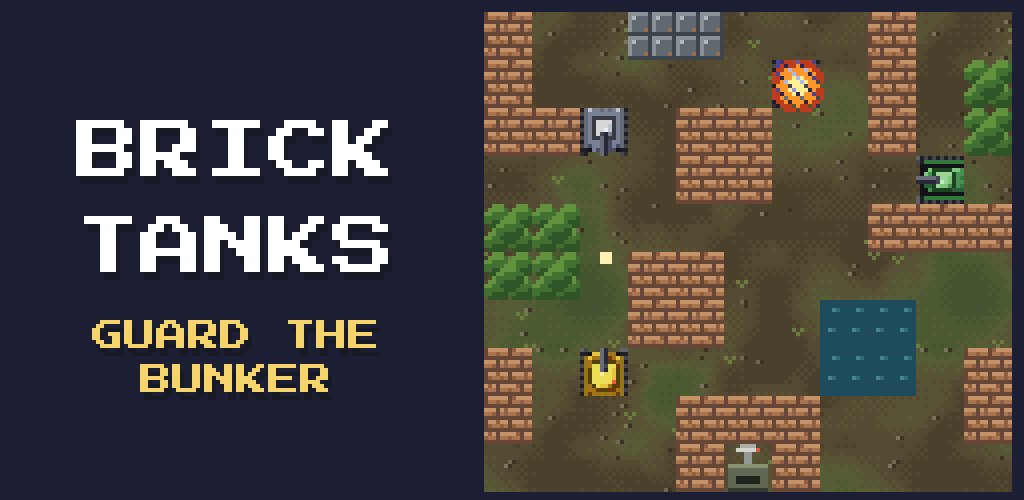
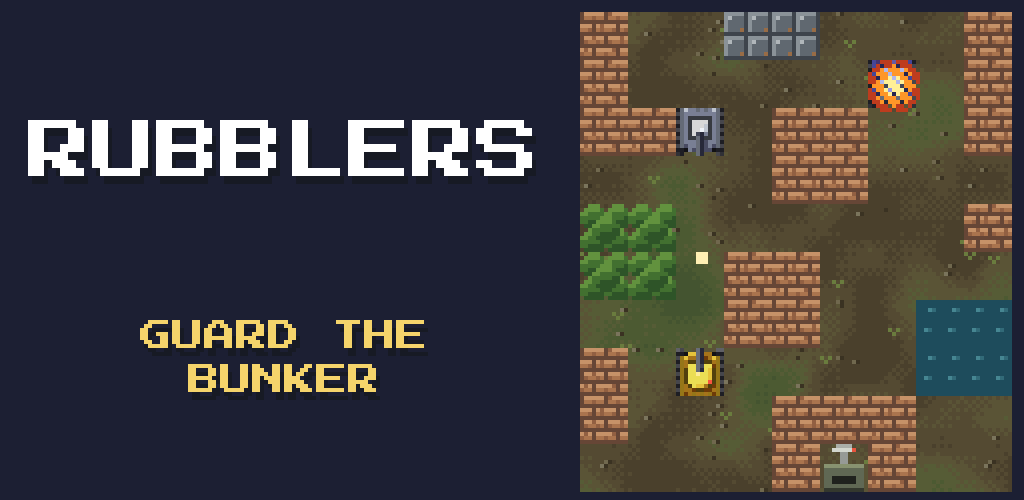
brick-tanks: the game is now called Rubblers
Display name, privacy policy, diorama label and feature graphic. URLs stay /brick-tanks/.

Claude-Session: https://claude.ai/code/session_01BNVtYF22qr7eKBFKzy8B9n

diff --git a/src/data/site.ts b/src/data/site.ts
@@ -56,7 +56,7 @@ export const GAMES: Game[] = [
             store: "https://play.google.com/store/apps/details?id=eu.qkix.inchway" },
   },
   {
-    id: "brick-tanks", name: "Brick Tanks", accent: "#E0664C", status: "live",
+    id: "brick-tanks", name: "Rubblers", accent: "#E0664C", status: "live",
     shots: ["1_campaign", "2_battle", "3_desert", "6_boss", "5_night"], shotLangs: ["en", "pl"], videoLangs: ["en", "pl"], youtube: "1BHbHuYiLW4",
     tag: { en: "Guard your bunker in a brick maze – a one-thumb pixel tank battle.",
            pl: "Broń bunkra w ceglanym labiryncie – pixelowa bitwa czołgów na jeden kciuk." },
@@ -125,7 +125,7 @@ export const COMMUNITY_API = "https://qkix-community.qkix.workers.dev";
 
 const en = {
   title: "qkix – tiny pixel games for one thumb",
-  description: "qkix makes small, cozy pixel-art games for Android and iPhone: Hoplow, Inchway, Crosswoven and Brick Tanks.",
+  description: "qkix makes small, cozy pixel-art games for Android and iPhone: Hoplow, Inchway, Crosswoven and Rubblers.",
   nav_games: "Games", nav_videos: "Videos", nav_about: "About", nav_contact: "Contact",
   scene_label: "Live scenes from our games taking turns: a bunny on a meadow, cars on a highway, a tank in a brick maze, a dwarf in a mine, a patch being stitched",
   scene_tag: "Live: our games, taking turns",
@@ -178,7 +178,7 @@ const en = {
 };
 const pl: typeof en = {
   title: "qkix – małe pixelowe gry na jeden kciuk",
-  description: "qkix robi małe, przytulne gry pixel art na Androida i iPhone'a: Hoplow, Inchway, Crosswoven i Brick Tanks.",
+  description: "qkix robi małe, przytulne gry pixel art na Androida i iPhone'a: Hoplow, Inchway, Crosswoven i Rubblers.",
   nav_games: "Gry", nav_videos: "Filmy", nav_about: "O nas", nav_contact: "Kontakt",
   scene_label: "Scenki z naszych gier na zmianę: królik na łące, auta na autostradzie, czołg w ceglanym labiryncie, krasnolud w kopalni, wyszywana łatka",
   scene_tag: "Na żywo: nasze gry na zmianę",

diff --git a/src/scripts/diorama.js b/src/scripts/diorama.js
@@ -1,5 +1,5 @@
 // The home page's live diorama: a strip of panels, one game in each (Hoplow's meadow, Inchway's highway,
-// Brick Tanks' battlefield, Gloomdeep's mine, Crosswoven's table). Two or three panels fit; every
+// Rubblers' battlefield, Gloomdeep's mine, Crosswoven's table). Two or three panels fit; every
 // ROTATE seconds one panel blows up in a pixel blast and the next game takes its place, so all five
 // come round. Drawn at 1 game pixel per canvas pixel and scaled up by whole numbers (CSS).
 // Sprites: public/img/sprites (tools/sync_assets.py copies them from the games).
@@ -21,7 +21,7 @@ const ROTATE = [15, 20];          // s a panel stays before the next game blows 
 const BLAST = 1.0;                // s of the blast; the new game shows from its half
 const SEAM = "#12141f";           // the line between panels (the band's own bottom border)
 const BOOM = ["#ffffff", "#ffec96", "#faaa3c", "#dc5028", "#5a3c32"];
-const TITLES = {meadow: "Hoplow", highway: "Inchway", maze: "Brick Tanks", mine: "Gloomdeep", table: "Crosswoven"};
+const TITLES = {meadow: "Hoplow", highway: "Inchway", maze: "Rubblers", mine: "Gloomdeep", table: "Crosswoven"};
 let W = 200, SC = 3, last = 0, panels = [], queue = [], next = 0, turn = 0;
 const rnd = (a, b) => a + Math.random() * (b - a);
 const pick = a => a[Math.floor(Math.random() * a.length)];
@@ -161,7 +161,7 @@ function highway(x0, w) {
   };
 }
 
-// ---- Brick Tanks: a tank patrols under a brick wall and knocks out its nearest bricks
+// ---- Rubblers: a tank patrols under a brick wall and knocks out its nearest bricks
 function maze(x0, w) {
   const bricks = [], bushes = [];
   const left = x0 + 4, cols = Math.max(2, Math.floor((w - 8) / 12));

diff --git a/src/content/privacy/brick-tanks.md b/src/content/privacy/brick-tanks.md
@@ -1,9 +1,9 @@
 ---
-title: "Brick Tanks – Privacy Policy"
+title: "Rubblers – Privacy Policy"
 updated: "2 November 2026"
 ---
 
-Brick Tanks ("the app") is a game published by **qkix** ("we"). This policy explains what
+Rubblers ("the app") is a game published by **qkix** ("we"). This policy explains what
 information is processed when you play it.
 
 ## Information we collect
